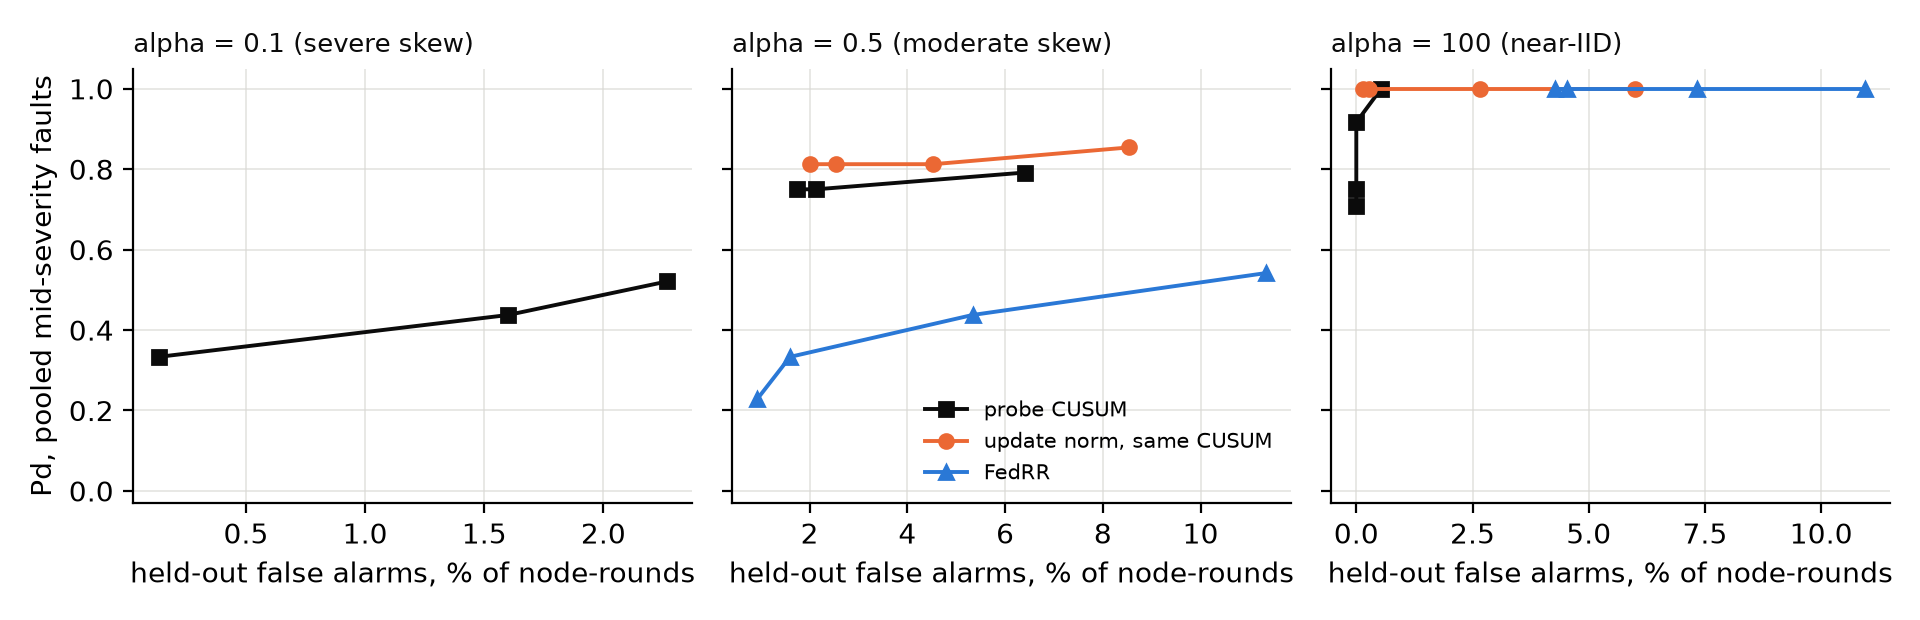
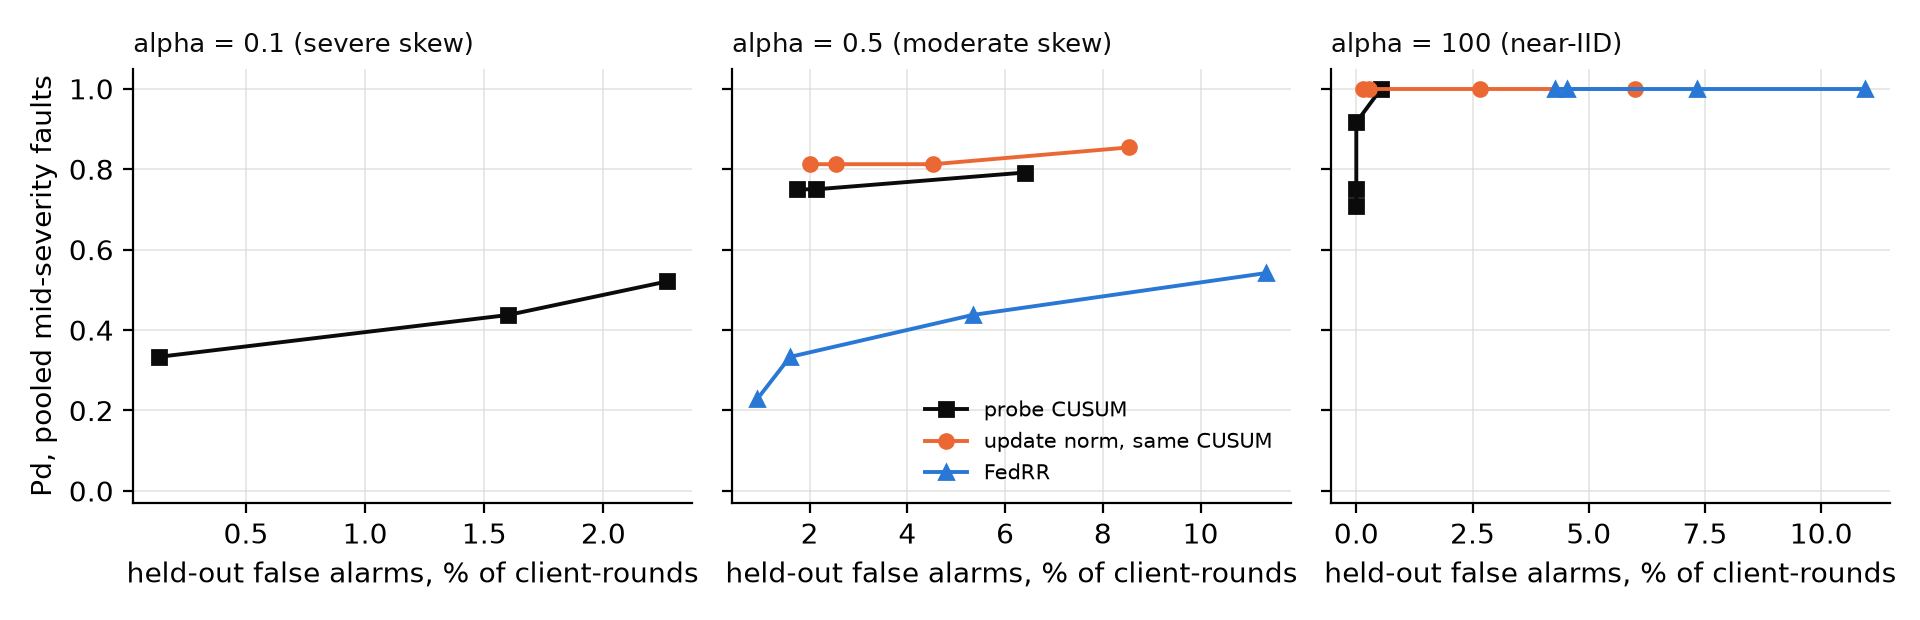
paper builder: client-round wording in captions

Changed region(s): [[0.0625, 0.8887, 1.0, 0.95]]

diff --git a/paper/build_tables_figures.py b/paper/build_tables_figures.py
@@ -233,7 +233,7 @@ def table_detectors(scores: dict) -> str:
         "\\caption{Every detector with seed 0 as the calibration seed (LOO: leave-one-out). The pooled "
         "population (mid severity of each kind on clients 2, 5 and 9, 48 "
         "fault runs per level), threshold at each statistic's healthy "
-        "maximum on seed 0, false alarms per node-round on held-out seeds 1 "
+        "maximum on seed 0, false alarms per client per round on held-out seeds 1 "
         "to 5, Pd the fraction detected, TTD the median rounds to the first "
         "flag. The update-space statistics cannot be scored on the full "
         "population at $\\alpha = 0.1$ (no update records for clients 5 and "
@@ -369,7 +369,7 @@ def fig_operating_curve(scores: dict) -> None:
                     label=name)
         ax.set_title(ALPHA_LABEL[a].replace("$", "").replace("\\alpha",
                      "alpha"), loc="left", fontsize=9.5, color=INK)
-        ax.set_xlabel("held-out false alarms, % of node-rounds")
+        ax.set_xlabel("held-out false alarms, % of client-rounds")
         ax.set_ylim(-0.03, 1.05)
         style(ax)
     axes[0].set_ylabel("Pd, pooled mid-severity faults")
@@ -516,7 +516,7 @@ def table_rotation(repo: Path) -> str:
         "the calibration seed, the other five held out: median over the six "
         "choices, with the range in parentheses. Caught: mid-severity fault runs "
         "detected, of 48 per level (one fault of each kind at mid severity on "
-        "clients 2, 5 and 9). FAR: held-out false alarms per node-round. At "
+        "clients 2, 5 and 9). FAR: held-out false alarms per client per round. At "
         "$\\alpha = 0.1$ the update-space detectors are scored on client 2 "
         "only (24 runs), the one client with update records there. LOO: "
         "leave-one-out. With one healthy run setting the threshold, a held-out "

diff --git a/paper/tables/rotation.tex b/paper/tables/rotation.tex
@@ -16,6 +16,6 @@ FedRR, healthy max & 0 (0--1) & 0.5 (0.0--1.5) & 5 (0--15) & 0.6 (0.0--1.3) & 48
 FedRR, step-normalised & 10 (0--20) & 0.9 (0.0--2.0) & 26.5 (10--36) & 0.6 (0.0--2.1) & 40 (30--47) & 1.4 (0.0--2.8) \\
 \bottomrule
 \end{tabular}
-\caption{Every detector with each of the six healthy seeds in turn as the calibration seed, the other five held out: median over the six choices, with the range in parentheses. Caught: mid-severity fault runs detected, of 48 per level (one fault of each kind at mid severity on clients 2, 5 and 9). FAR: held-out false alarms per node-round. At $\alpha = 0.1$ the update-space detectors are scored on client 2 only (24 runs), the one client with update records there. LOO: leave-one-out. With one healthy run setting the threshold, a held-out healthy run raised at least one alarm in 15 of 30 calibrate-one, hold-one pairs for every detector, as exchangeable runs imply (Section~\ref{sec:protocol}).}
+\caption{Every detector with each of the six healthy seeds in turn as the calibration seed, the other five held out: median over the six choices, with the range in parentheses. Caught: mid-severity fault runs detected, of 48 per level (one fault of each kind at mid severity on clients 2, 5 and 9). FAR: held-out false alarms per client per round. At $\alpha = 0.1$ the update-space detectors are scored on client 2 only (24 runs), the one client with update records there. LOO: leave-one-out. With one healthy run setting the threshold, a held-out healthy run raised at least one alarm in 15 of 30 calibrate-one, hold-one pairs for every detector, as exchangeable runs imply (Section~\ref{sec:protocol}).}
 \label{tab:rotation}
 \end{table}

diff --git a/paper/tables/detectors.tex b/paper/tables/detectors.tex
@@ -15,6 +15,6 @@ LOO update distance, same CUSUM & -- & -- & -- & 1.2 & 0.58 & 12 & 1.3 & 0.98 & 
 FedRR, healthy-max threshold & -- & -- & -- & 0.9 & 0.23 & 13 & 4.3 & 1.00 & 4 \\
 \bottomrule
 \end{tabular}
-\caption{Every detector with seed 0 as the calibration seed (LOO: leave-one-out). The pooled population (mid severity of each kind on clients 2, 5 and 9, 48 fault runs per level), threshold at each statistic's healthy maximum on seed 0, false alarms per node-round on held-out seeds 1 to 5, Pd the fraction detected, TTD the median rounds to the first flag. The update-space statistics cannot be scored on the full population at $\alpha = 0.1$ (no update records for clients 5 and 9 there). Medians and ranges over every choice of calibration seed are in Table~\ref{tab:rotation}; FedRR at its own control limit is in Table~\ref{tab:fedrr}.}
+\caption{Every detector with seed 0 as the calibration seed (LOO: leave-one-out). The pooled population (mid severity of each kind on clients 2, 5 and 9, 48 fault runs per level), threshold at each statistic's healthy maximum on seed 0, false alarms per client per round on held-out seeds 1 to 5, Pd the fraction detected, TTD the median rounds to the first flag. The update-space statistics cannot be scored on the full population at $\alpha = 0.1$ (no update records for clients 5 and 9 there). Medians and ranges over every choice of calibration seed are in Table~\ref{tab:rotation}; FedRR at its own control limit is in Table~\ref{tab:fedrr}.}
 \label{tab:detectors}
 \end{table}
